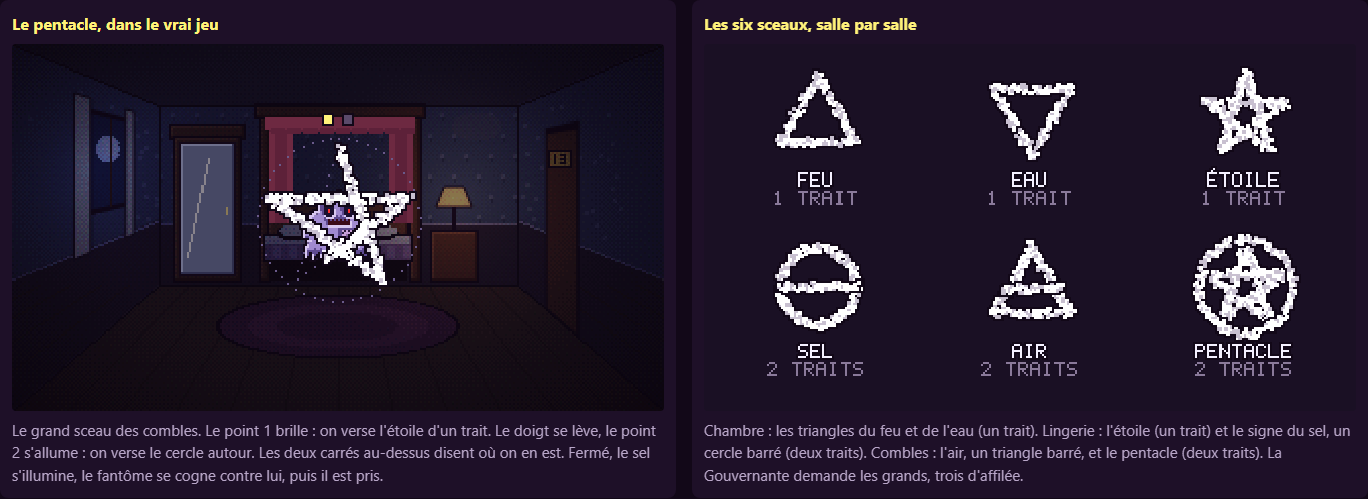
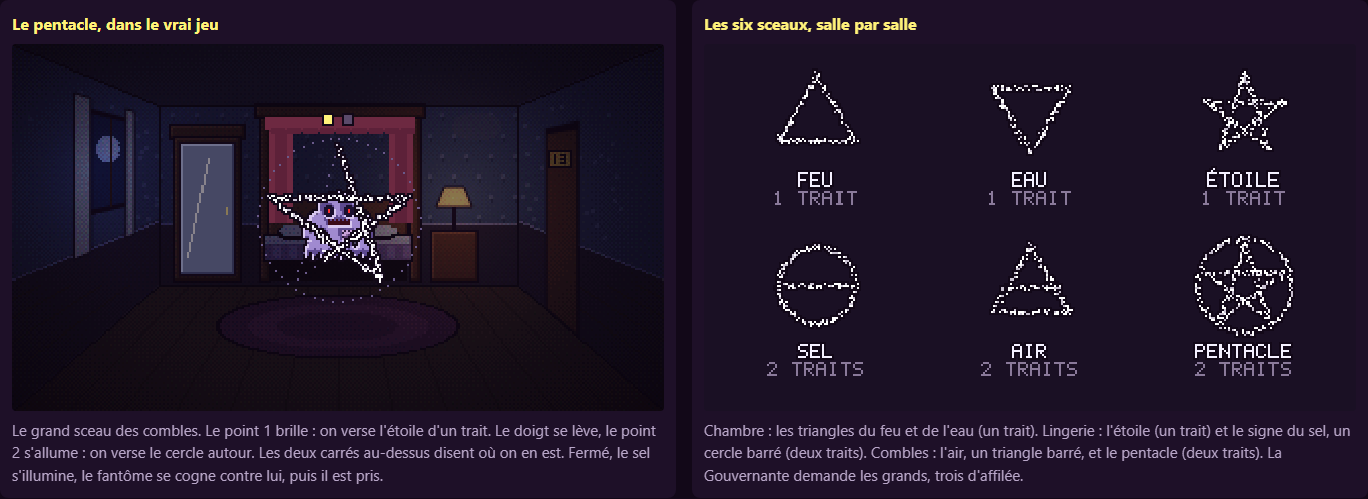
Ghostel : maquette des sceaux de sel, grains plus fins

diff --git a/tools/mockup-ghost-train-sceaux-sel.html b/tools/mockup-ghost-train-sceaux-sel.html
@@ -70,9 +70,9 @@ const FORMES = [
 
 function sel(c, pts, eclat, graine = 0) {
   const pp = points(pts);
-  const grain = (i, g) => [Math.round((h32(i * 3 + g + graine) - 0.5) * 4), Math.round((h32(i * 5 + g + graine) - 0.5) * 4), h32(i * 11 + g + graine) < 0.8];
-  pp.forEach(([x, y], i) => { for (let g = 0; g < 3; g++) { const [dx, dy, ok] = grain(i, g); if (ok) R(c, NOIR, x + dx - 1, y + dy - 1, 4, 4); } });
-  pp.forEach(([x, y], i) => { for (let g = 0; g < 3; g++) { const [dx, dy, ok] = grain(i, g); if (ok) R(c, eclat ? '#e0faff' : h32(i + g * 7 + graine) < 0.3 ? '#c8c0d0' : '#ffffff', x + dx, y + dy, 2, 2); } });
+  const grain = (i, g) => [Math.round((h32(i * 3 + g + graine) - 0.5) * 2.2), Math.round((h32(i * 5 + g + graine) - 0.5) * 2.2), h32(i * 11 + g + graine) < 0.7];
+  pp.forEach(([x, y], i) => { for (let g = 0; g < 2; g++) { const [dx, dy, ok] = grain(i, g); if (ok) R(c, NOIR, x + dx - 1, y + dy - 1, 3, 3); } });
+  pp.forEach(([x, y], i) => { for (let g = 0; g < 2; g++) { const [dx, dy, ok] = grain(i, g); if (ok) R(c, eclat ? '#e0faff' : h32(i + g * 7 + graine) < 0.3 ? '#c8c0d0' : '#ffffff', x + dx, y + dy, 1, 1); } });
 }
 function guide(c, pts) { pix(c, pts, '#6a5a8a', 1, (i) => i % 5 === 0); }
 function depart(c, t, x, y, n) {
